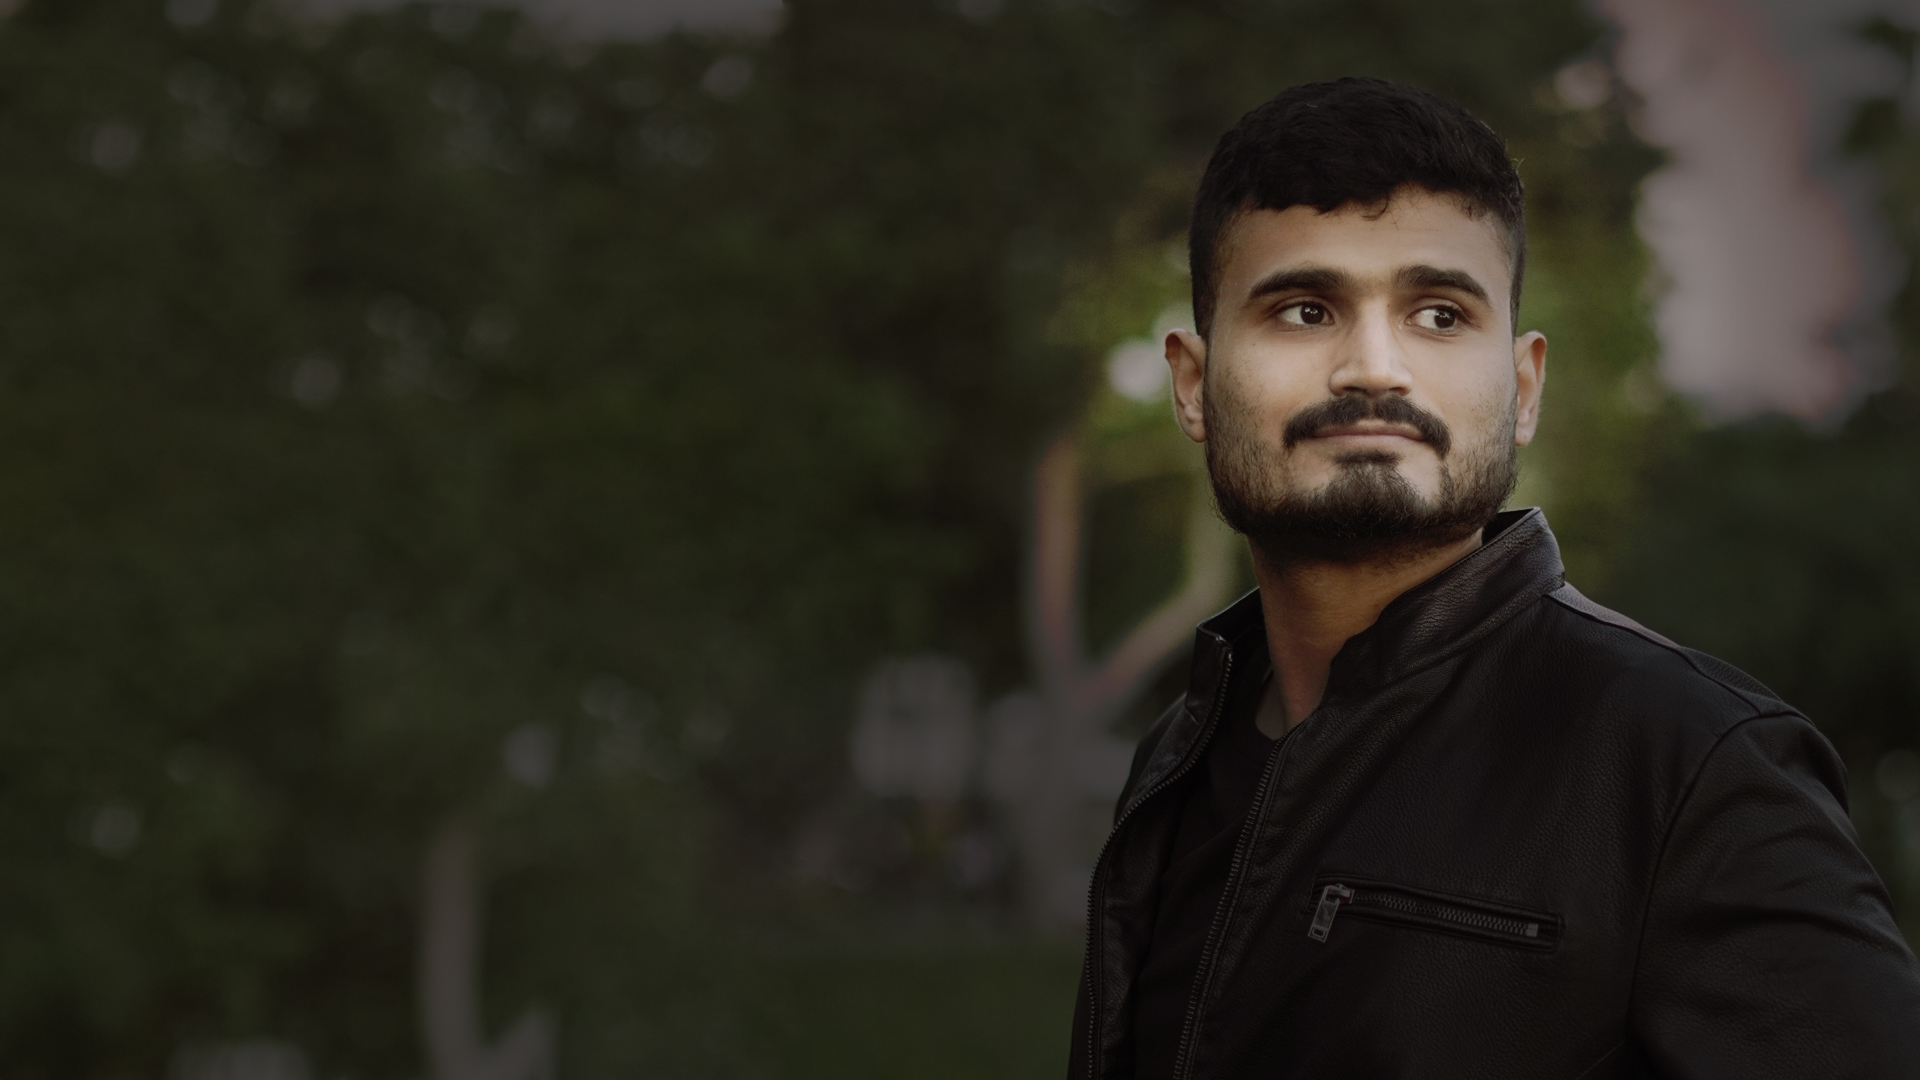
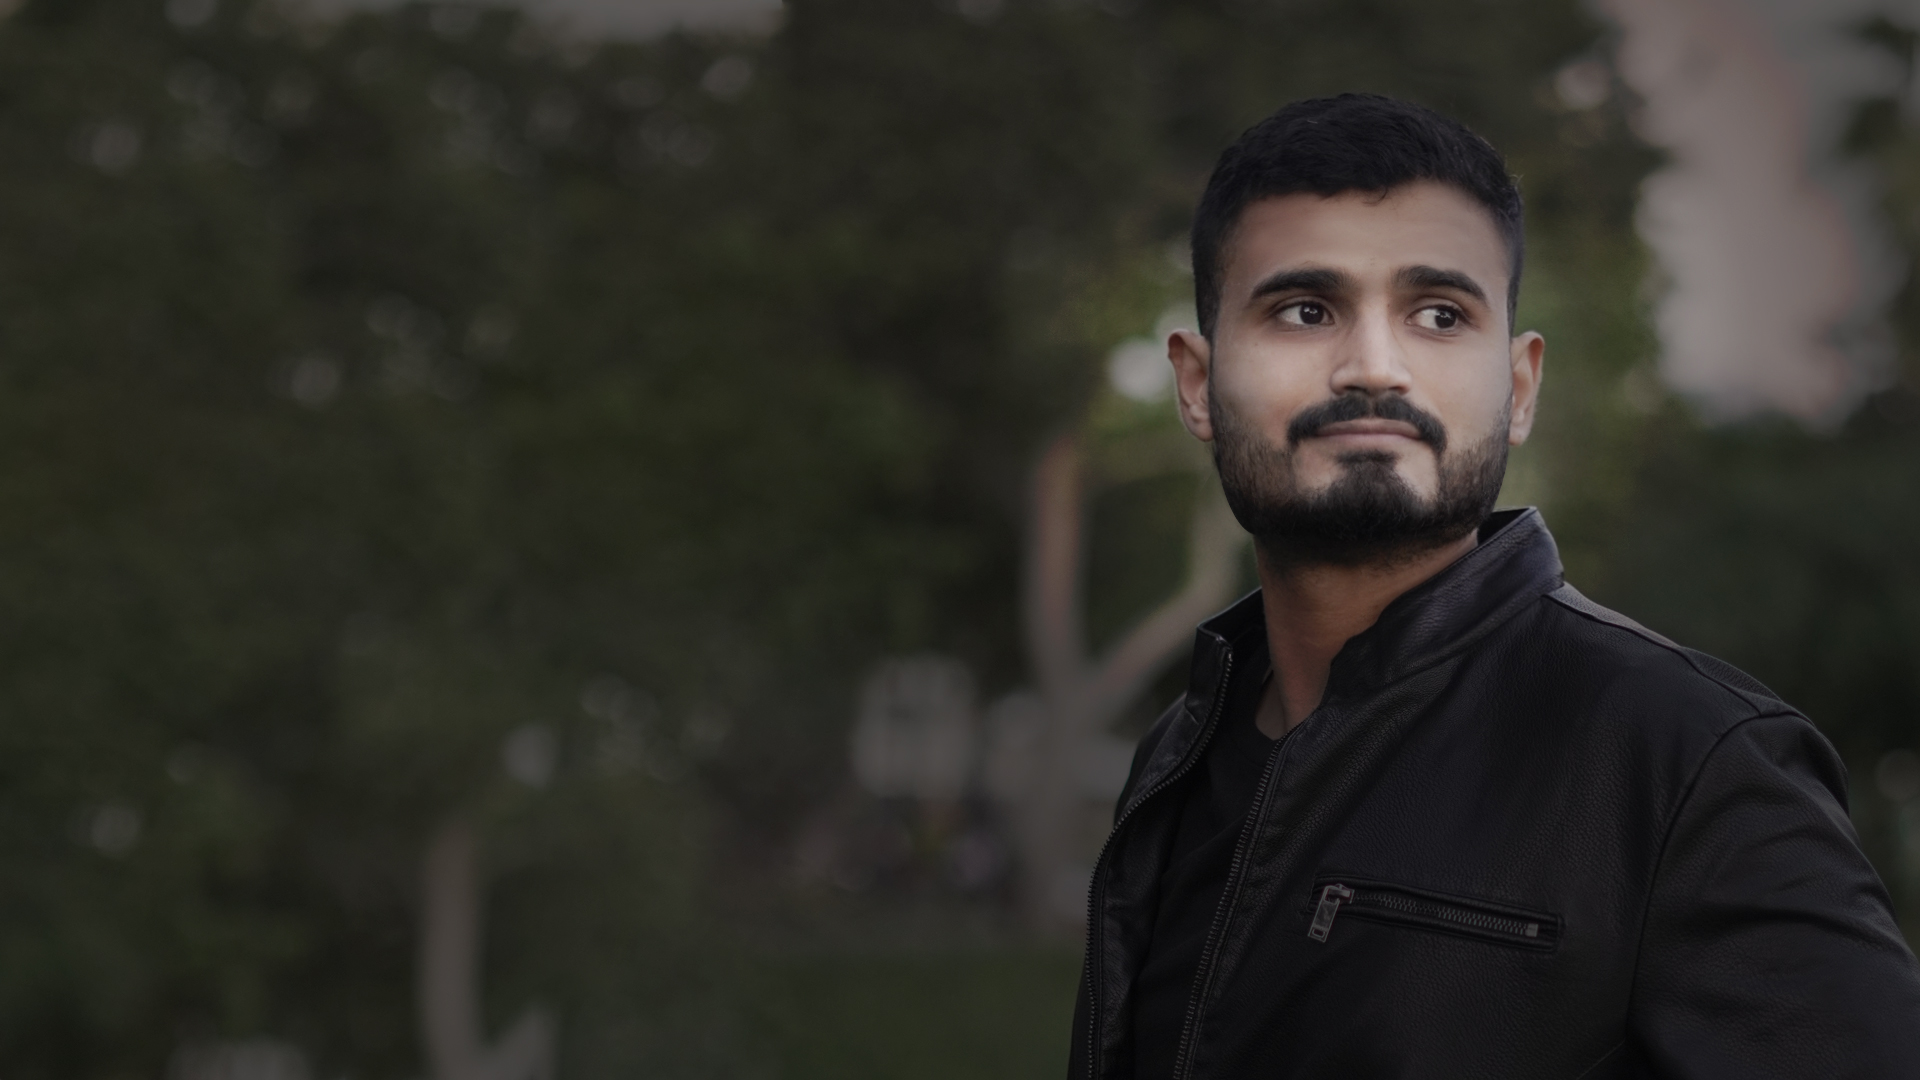
cambio de fotos

diff --git a/src/components/pages/_Home.scss b/src/components/pages/_Home.scss
@@ -7,9 +7,10 @@
     .home-info__hero {
       display: grid;
       grid-template-columns: 40% 60%;
-      background-color: $Principal-Negro;
-      background-position: center;
-      background-size: contain;
+      background: linear-gradient(rgba(0, 0, 0, 0.6), transparent),
+        url("../../assets/imagenes/FOTO-HOME.jpg");
+      background-position: center top;
+      background-size: cover;
       background-repeat: no-repeat;
       padding: 0px;
       padding-left: 60px;
@@ -84,12 +85,6 @@
         background-position: center center;
         background-size: cover;
         width: 100%;
-        background:
-                linear-gradient(rgba(0, 0, 0, 0.6), transparent),
-                url("../../assets/imagenes/FOTO-HOME3.jpeg");
-        background-position: center;
-        background-size: cover;
-        background-repeat: no-repeat;
       }
     }
 

diff --git a/src/components/pages/Home.jsx b/src/components/pages/Home.jsx
@@ -1,7 +1,7 @@
 import React from "react";
 import { useRef, useEffect } from "react";
-import imagenHero from "../../assets/imagenes/FOTO-HOME3.jpeg";
-import imagenBio from "../../assets/imagenes/FOTO-HOME1-bn.jpeg";
+import imagenHero from "../../assets/imagenes/FOTO-HOME.jpg";
+import imagenBio from "../../assets/imagenes/FOTO-BIO1.jpeg";
 import PortfolioListContainer from "../portfolio/PortfolioListContainer";
 import ClientesListContainer from "../seccionClientes/ClientesListContainer";
 import EstudiosListContainer from "../estudios/EstudiosListContainer";
